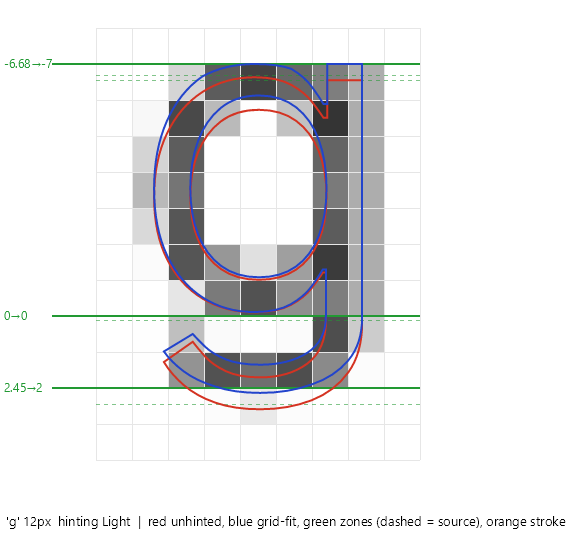
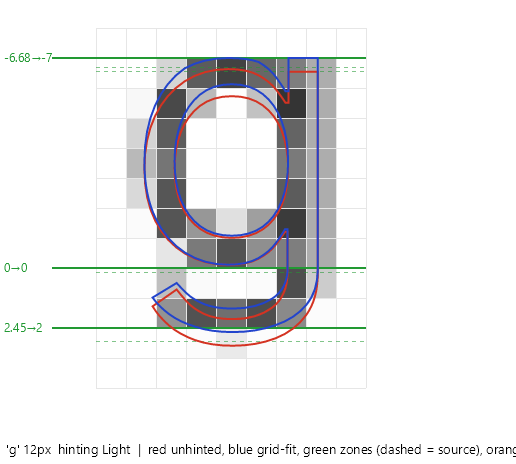
Alternate explorer and quadrant inspector on the Rasterization tab
The side-by-side split starved the inspector of width. The tab now
alternates: the explorer owns the full page until a glyph is selected,
then the inspector takes it, with a Back button and Escape returning to
the explorer. The inspector lays its four stages out as 2x2 quadrants -
hinting, masks, ClearType, Slug payload - so everything is visible
together, and the figures are compacted (smaller zooms, 3x run redraw,
tighter Slug canvas) so typical inspection sizes fit a quadrant without
scrolling. The tier demo section is gone; the Tint tiers checkbox stays
and badges the window's live rendering instead. Doc figures regenerated
at the compacted dimensions.

diff --git a/samples/TextTestApp/Rasterization/RasterizationView.axaml.cs b/samples/TextTestApp/Rasterization/RasterizationView.axaml.cs
@@ -14,12 +14,13 @@ namespace TextTestApp
     /// <summary>
     /// The rasterization inspector: live figures for each stage of the managed glyph pipeline
     /// (hinting warps, mask anatomy, ClearType stages, the Slug payload) plus a live
-    /// tier-routing overlay for the window's own rendering. Selection-driven: it displays
-    /// whatever glyph the explorer or the shaped buffer pushed, at the app's global font
-    /// size, so ligatures and unmapped glyphs are reachable through the explorer.
+    /// tier-routing overlay for the window's own rendering. Selection-driven and laid out
+    /// as quadrants so all four stages are visible together: it displays whatever glyph the
+    /// explorer or the shaped buffer pushed, at the app's global font size.
     /// </summary>
     public partial class RasterizationView : UserControl
     {
+        private Button _backButton = null!;
         private TextBlock _glyphText = null!;
         private ComboBox _hintingBox = null!;
         private CheckBox _gammaBox = null!;
@@ -29,17 +30,20 @@ namespace TextTestApp
         private Image _maskImage = null!;
         private Image _lcdImage = null!;
         private Image _slugImage = null!;
-        private ContentControl _tierSampleHost = null!;
         private GlyphTypeface? _typeface;
         private ushort _glyph;
         private string? _label;
         private float _size = 13;
         private bool _initialized;
 
+        /// <summary>Raised by the Back button; the host swaps the explorer back in.</summary>
+        public event Action? BackRequested;
+
         public RasterizationView()
         {
             AvaloniaXamlLoader.Load(this);
 
+            _backButton = this.FindControl<Button>("BackButton")!;
             _glyphText = this.FindControl<TextBlock>("GlyphText")!;
             _hintingBox = this.FindControl<ComboBox>("HintingBox")!;
             _gammaBox = this.FindControl<CheckBox>("GammaBox")!;
@@ -49,23 +53,17 @@ namespace TextTestApp
             _maskImage = this.FindControl<Image>("MaskImage")!;
             _lcdImage = this.FindControl<Image>("LcdImage")!;
             _slugImage = this.FindControl<Image>("SlugImage")!;
-            _tierSampleHost = this.FindControl<ContentControl>("TierSampleHost")!;
 
             _hintingBox.ItemsSource = new[] { TextHintingMode.Light, TextHintingMode.None, TextHintingMode.Strong };
             _hintingBox.SelectedIndex = 0;
+            _backButton.Click += (_, _) => BackRequested?.Invoke();
 
             _hintingBox.SelectionChanged += (_, _) => Rebuild();
             _gammaBox.IsCheckedChanged += (_, _) => Rebuild();
             _bgrBox.IsCheckedChanged += (_, _) => Rebuild();
             _tintTiersBox.IsCheckedChanged += (_, _) =>
-            {
                 TextTierDiagnostics.TintTiers = _tintTiersBox.IsChecked == true;
 
-                // Fresh content builds fresh draws, so the badges appear immediately.
-                _tierSampleHost.Content = BuildTierSample();
-            };
-
-            _tierSampleHost.Content = BuildTierSample();
             _initialized = true;
 
             if (Environment.GetEnvironmentVariable("GLYPH_INSPECTOR") == "tint")
@@ -161,66 +159,5 @@ namespace TextTestApp
             previous?.Dispose();
         }
 
-        private static Control BuildTierSample()
-        {
-            var gradient = new LinearGradientBrush
-            {
-                StartPoint = new RelativePoint(0, 0, RelativeUnit.Relative),
-                EndPoint = new RelativePoint(1, 0, RelativeUnit.Relative),
-                GradientStops =
-                {
-                    new GradientStop(Colors.OrangeRed, 0),
-                    new GradientStop(Colors.RoyalBlue, 1),
-                },
-            };
-
-            var rotated = new TextBlock
-            {
-                Text = "Rotated 32 px — the mask triage declines, the vector tier takes it",
-                FontSize = 32,
-                RenderTransform = new RotateTransform(14),
-                RenderTransformOrigin = new RelativePoint(0, 0.5, RelativeUnit.Relative),
-                Margin = new Thickness(8, 40, 0, 60),
-                HorizontalAlignment = HorizontalAlignment.Left,
-            };
-
-            return new Border
-            {
-                Background = Brushes.White,
-                BorderBrush = Brushes.Gray,
-                BorderThickness = new Thickness(1),
-                Padding = new Thickness(12),
-                Child = new StackPanel
-                {
-                    Spacing = 6,
-                    Children =
-                    {
-                        new TextBlock
-                        {
-                            Text = "Body text at 13 px composes through cached run masks — the workhorse tier for axis-aligned UI text.",
-                            FontSize = 13,
-                        },
-                        new TextBlock
-                        {
-                            Text = "Zg 200 px",
-                            FontSize = 200,
-                        },
-                        rotated,
-                        new TextBlock
-                        {
-                            Text = "Gradient foreground at 24 px — non-solid brushes fall through to the native blob.",
-                            FontSize = 24,
-                            Foreground = gradient,
-                        },
-                        new TextBlock
-                        {
-                            Text = "Legend: green = run masks, magenta = Slug vector tier, orange = native blob.",
-                            FontSize = 12,
-                            Opacity = 0.7,
-                        },
-                    },
-                },
-            };
-        }
     }
 }

diff --git a/samples/TextTestApp/Rasterization/PipelineFigures.cs b/samples/TextTestApp/Rasterization/PipelineFigures.cs
@@ -66,7 +66,7 @@ namespace TextTestApp
                 hinted.ApplyHorizontalWarp(StemFit.BuildWarp(hinted, 1f));
             }
 
-            var zoom = Math.Clamp(560 / Math.Max(mask.Width, Math.Max(mask.Height, 1)), 8, 36);
+            var zoom = Math.Clamp(400 / Math.Max(mask.Width, Math.Max(mask.Height, 1)), 6, 30);
             const int marginLeft = 96;
             const int marginTop = 28;
             var width = marginLeft + mask.Width * zoom + 150;
@@ -182,12 +182,13 @@ namespace TextTestApp
         /// </summary>
         public static SKBitmap MaskAnatomy(GlyphTypeface typeface, ushort glyph, string label, string runText, float size)
         {
+            // Compact enough for a quadrant; the run redraws at 3x instead of 4x.
             var scaleQ = GlyphMaskKey.QuantizeScale(size);
             var scale = scaleQ / (GlyphMaskKey.ScaleQuantum * typeface.Metrics.DesignEmHeight);
             var mask = GlyphMasks.Build(typeface, new GlyphPathBuilder(),
                 new GlyphMaskKey(glyph, scaleQ, 0, GlyphMaskMode.Antialiased));
 
-            const int zoom = 14;
+            const int zoom = 11;
             var maskPanelWidth = Math.Max(mask.Width * zoom + 20, 300);
 
             // Compose the run into a BGRA buffer exactly the way the renderer does.
@@ -218,8 +219,8 @@ namespace TextTestApp
                 penX += metrics.AdvanceWidth * scale;
             }
 
-            var width = Math.Max(Math.Max(maskPanelWidth + 500, runWidth * 4 + 40), 620);
-            var height = Math.Max(mask.Height * zoom, 130) + runHeight * 5 + 110;
+            var width = Math.Max(Math.Max(maskPanelWidth + 480, runWidth * 3 + 40), 600);
+            var height = Math.Max(mask.Height * zoom, 126) + runHeight * 4 + 104;
             var bitmap = new SKBitmap(new SKImageInfo(width, height, SKColorType.Bgra8888, SKAlphaType.Premul));
 
             using var canvas = new SKCanvas(bitmap);
@@ -267,7 +268,7 @@ namespace TextTestApp
             }
 
             // The composed run at 1x and 4x.
-            var runTop = Math.Max(mask.Height * zoom, 130) + 56;
+            var runTop = Math.Max(mask.Height * zoom, 126) + 52;
 
             using (var image = SKImage.FromPixelCopy(
                        new SKImageInfo(runWidth, runHeight, SKColorType.Bgra8888, SKAlphaType.Premul), run))
@@ -278,7 +279,7 @@ namespace TextTestApp
                     10, runTop - 8, SKTextAlign.Left, font, text);
                 canvas.DrawImage(image, new SKRect(10, runTop, 10 + runWidth, runTop + runHeight));
                 canvas.DrawImage(image,
-                    new SKRect(10, runTop + runHeight + 8, 10 + runWidth * 4, runTop + runHeight + 8 + runHeight * 4),
+                    new SKRect(10, runTop + runHeight + 8, 10 + runWidth * 3, runTop + runHeight + 8 + runHeight * 3),
                     new SKSamplingOptions(SKFilterMode.Nearest));
             }
 
@@ -325,8 +326,8 @@ namespace TextTestApp
 
             GlyphRasterizer.Rasterize(contours, mask.Width * 3, mask.Height, -mask.Left * 3, -mask.Top, false, raw);
 
-            const int zoom = 13;
-            const int gap = 26;
+            const int zoom = 9;
+            const int gap = 20;
             var panelWidth = mask.Width * zoom;
             var raw3Width = mask.Width * 3 * (zoom / 3);
             var width = raw3Width + (panelWidth + gap) * 4 + gap + 20;
@@ -434,7 +435,7 @@ namespace TextTestApp
                 ? SlugBandEncoder.Encode(sink)
                 : null;
 
-            var bitmap = new SKBitmap(new SKImageInfo(620, 640, SKColorType.Bgra8888, SKAlphaType.Premul));
+            var bitmap = new SKBitmap(new SKImageInfo(560, 520, SKColorType.Bgra8888, SKAlphaType.Premul));
 
             using var canvas = new SKCanvas(bitmap);
             using var font = new SKFont(SKTypeface.Default, 13);
@@ -449,10 +450,10 @@ namespace TextTestApp
                 return bitmap;
             }
 
-            const float left = 50;
-            const float top = 40;
+            const float left = 46;
+            const float top = 32;
             var extent = Math.Max(data.MaxX - data.MinX, data.MaxY - data.MinY);
-            var s = 480f / extent;
+            var s = 370f / extent;
 
             float MapX(float x) => left + (x - data.MinX) * s;
             float MapY(float y) => top + (data.MaxY - y) * s;   // em space is y-up
@@ -525,13 +526,10 @@ namespace TextTestApp
                 $"{label}: {data.ContourCount} contours, {data.TotalCurveCount} quadratic curves, " +
                 $"{data.HorizontalBandCount}x{data.VerticalBandCount} bands (worst list {worstBand} of {SlugTexelSerializer.MaxBandListLength}), " +
                 $"payload {data.RetainedBytes} B, {data.FillRule}",
-                10, 630 - 60, SKTextAlign.Left, font, text);
+                10, 520 - 40, SKTextAlign.Left, font, text);
             canvas.DrawText(
-                "green counts = curves per band list; the shader walks exactly one horizontal or vertical list per pixel",
-                10, 630 - 40, SKTextAlign.Left, font, text);
-            canvas.DrawText(
-                "encoded once per glyph ever, in em space; every size and rotation renders from this payload",
-                10, 630 - 20, SKTextAlign.Left, font, text);
+                "green counts = curves per band list; encoded once per glyph ever, in em space",
+                10, 520 - 20, SKTextAlign.Left, font, text);
 
             return bitmap;
         }

diff --git a/samples/TextTestApp/MainWindow.axaml.cs b/samples/TextTestApp/MainWindow.axaml.cs
@@ -34,7 +34,14 @@ namespace TextTestApp
             _font.SelectionChanged += (_, _) => PushFontContext();
             _size.TextChanged += (_, _) => PushFontContext();
             PushFontContext();
-            _explorer.GlyphSelected += (typeface, glyph, label) => _raster.ShowGlyph(typeface, glyph, label);
+            // The Rasterization tab alternates: the explorer owns the full page until a
+            // glyph is selected, then the inspector takes it; Back (or Escape) returns.
+            _explorer.GlyphSelected += (typeface, glyph, label) =>
+            {
+                _raster.ShowGlyph(typeface, glyph, label);
+                ShowInspector(true);
+            };
+            _raster.BackRequested += () => ShowInspector(false);
 
             // Figure export for docs/glyph-rasterization/images: deterministic Inter renders
             // through the same code the Rasterization tab shows live.
@@ -63,7 +70,18 @@ namespace TextTestApp
                     "ab" => 4,
                     _ => 1,
                 };
+
+                if (inspect is "1" or "tint")
+                {
+                    ShowInspector(true);
+                }
             }
+        }
+
+        private void ShowInspector(bool visible)
+        {
+            _raster.IsVisible = visible;
+            _explorer.IsVisible = !visible;
         }
 
         private void PushFontContext()
@@ -101,7 +119,12 @@ namespace TextTestApp
             }
             else if (e.Key == Key.Escape)
             {
-                if (_hits.IsKeyboardFocusWithin && _hits.SelectedIndex != -1)
+                if (_globalTabs.SelectedIndex == 1 && _raster.IsVisible)
+                {
+                    ShowInspector(false);
+                    e.Handled = true;
+                }
+                else if (_hits.IsKeyboardFocusWithin && _hits.SelectedIndex != -1)
                 {
                     _hits.SelectedIndex = -1;
                     e.Handled = true;
@@ -261,6 +284,7 @@ namespace TextTestApp
                 {
                     _raster.ShowGlyph(rowTypeface, rowGlyph, rowLabel);
                     _globalTabs.SelectedIndex = 1;
+                    ShowInspector(true);
                 };
 
                 _buffer.Items.Add(border);

diff --git a/docs/glyph-rasterization/testing.md b/docs/glyph-rasterization/testing.md
@@ -51,7 +51,7 @@ Two apps split the tooling by layer:
 
 `samples/GlyphRasterDemo` is the capability tour and A/B review surface: a size waterfall, animated foreground tint, script fallback, transformed and zoomed text (the Slug sections), COLR emoji at several sizes, variable font ramps, and a per-mode rendering block. The header switches `TextRasterizationMode` (Managed / Managed without Slug / Backend) live, exposes `TextRenderingMode` and `TextHintingMode` combos that apply to the whole page through the inherited `TextOptions`, and carries a tier-tint checkbox.
 
-`samples/TextTestApp` covers the whole text pipeline behind three global tabs. Text is the formatting layer (interactive line, shaped buffer, hit testing). Rasterization puts the glyph explorer and the pipeline inspector side by side: the explorer is a paged grid over glyph-id space, rendered through the real mask tier, with capability badges and filters (COLR color glyphs, bitmap strikes, missing outlines) and per-glyph identity, metrics and Slug payload status; the inspector shows live versions of the figures in these docs (hinting anatomy with zones and stroke pairs, mask anatomy, the ClearType stages, the Slug band partition) for the currently selected glyph at the app-global font and size, plus the tier-routing overlay that badges every run in the window by the tier that drew it (green run masks, magenta Slug, orange native blob; `TextTierDiagnostics` in Avalonia.Skia). Waterfall shows a size ladder against the hinting modes, and Fringes classifies every subpixel fringe by polarity (warm-left and cool-right are physically correct for RGB stripes; anything else flags magenta as the swapped-order/double-blend signal) — both draw through `DrawingContextImpl` on an RGB-striped raster surface, so they show true LCD output in-app. The explorer sidebar also displays the selected font's line-metric provenance (which of typo/usWin/hhea won, with the raw triads) and a once-a-second pipeline HUD: mask cache occupancy, Slug store size and per-tier draw counters. A/B Diff renders the same text under two configurations (rasterization mode, hinting, rendering mode) through `RenderTargetBitmap` and shows both renders, an aligned overlay, a per-pixel difference heat map and numeric stats (RMSE, differing pixels, max channel delta); saving and loading a reference PNG turns it into a between-commits regression check (note: on the CPU raster target subpixel degrades to grayscale, so LCD comparisons need a live window). Clicking a cell in the explorer or double-clicking a glyph in the shaped buffer shows it in the inspector with the exact typeface instance; the global font and size selection drives every view. `GLYPH_INSPECTOR=1|tint|ab` selects the tab directly, and `GLYPH_FIGURE_EXPORT_DIR=<dir>` regenerates the doc figures from the repo's Inter asset.
+`samples/TextTestApp` covers the whole text pipeline behind three global tabs. Text is the formatting layer (interactive line, shaped buffer, hit testing). Rasterization alternates between the glyph explorer and the pipeline inspector (selecting a glyph swaps the inspector in, laid out as quadrants so all four stages are visible together; Back or Escape returns): the explorer is a paged grid over glyph-id space, rendered through the real mask tier, with capability badges and filters (COLR color glyphs, bitmap strikes, missing outlines) and per-glyph identity, metrics and Slug payload status; the inspector shows live versions of the figures in these docs (hinting anatomy with zones and stroke pairs, mask anatomy, the ClearType stages, the Slug band partition) in a 2x2 quadrant grid for the currently selected glyph at the app-global font and size, plus the tier-routing overlay checkbox that badges every run in the window by the tier that drew it (green run masks, magenta Slug, orange native blob; `TextTierDiagnostics` in Avalonia.Skia). Waterfall shows a size ladder against the hinting modes, and Fringes classifies every subpixel fringe by polarity (warm-left and cool-right are physically correct for RGB stripes; anything else flags magenta as the swapped-order/double-blend signal) — both draw through `DrawingContextImpl` on an RGB-striped raster surface, so they show true LCD output in-app. The explorer sidebar also displays the selected font's line-metric provenance (which of typo/usWin/hhea won, with the raw triads) and a once-a-second pipeline HUD: mask cache occupancy, Slug store size and per-tier draw counters. A/B Diff renders the same text under two configurations (rasterization mode, hinting, rendering mode) through `RenderTargetBitmap` and shows both renders, an aligned overlay, a per-pixel difference heat map and numeric stats (RMSE, differing pixels, max channel delta); saving and loading a reference PNG turns it into a between-commits regression check (note: on the CPU raster target subpixel degrades to grayscale, so LCD comparisons need a live window). Clicking a cell in the explorer or double-clicking a glyph in the shaped buffer shows it in the inspector with the exact typeface instance; the global font and size selection drives every view. `GLYPH_INSPECTOR=1|tint|ab` selects the tab directly, and `GLYPH_FIGURE_EXPORT_DIR=<dir>` regenerates the doc figures from the repo's Inter asset.
 
 ## Runner notes
 
